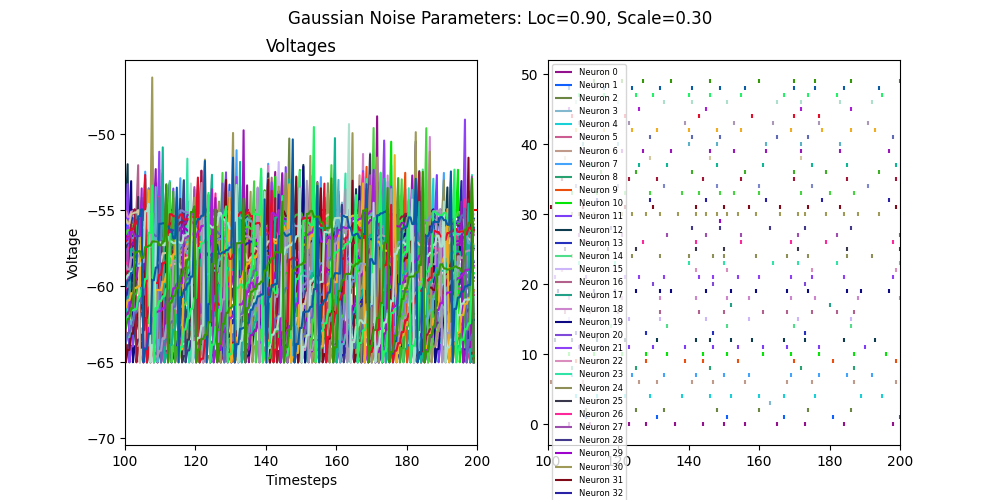
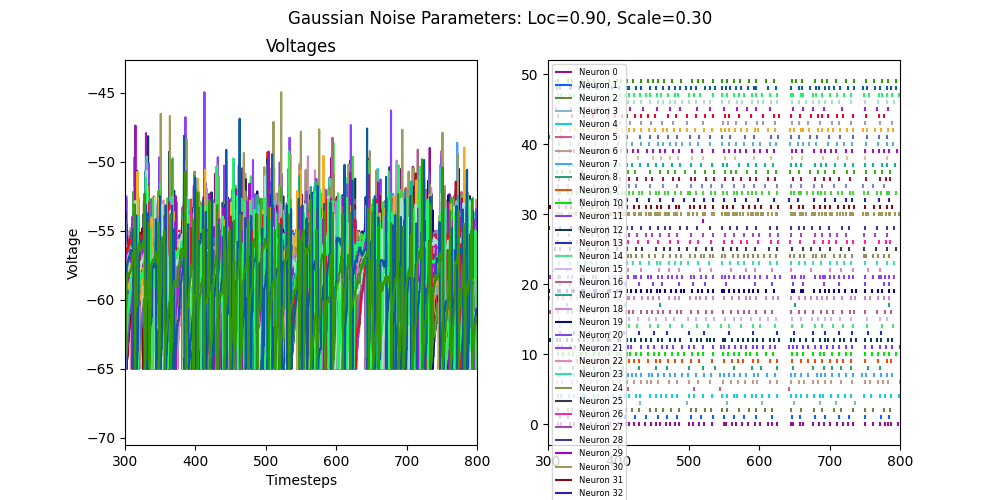
some exmeriments

diff --git a/model.py b/model.py
@@ -13,7 +13,7 @@ from scipy.interpolate import make_smoothing_spline, BSpline
 
 
 class SNN:
-    def __init__(self, delta_time=1.0, resting_potential=-65, threshold=-55, tau=10.0,
+    def __init__(self, delta_time=1.0, resting_potential=-65, threshold=-55, tau=10.0, t_refr = 3,
                  num_neurons=10, time_steps = 10, num_inputs = 10, input_matrix=None, connectivity_matrix=None, max_spikes_record=100000, loc = 0.85, scale = 0.2, plot_xlim = [0, 2000]):
         '''
         SNN that conductions spikes in an interconnected network of LIF neurons
@@ -35,6 +35,7 @@ class SNN:
         self.neurons = num_neurons
         self.all_voltages = np.zeros((num_neurons, 2*(time_steps)))
         self.time_steps = time_steps
+        self.t_refr = t_refr
 
         self.max_spikes_record = max_spikes_record
         self.spikes_num = 0        
@@ -47,7 +48,7 @@ class SNN:
         self.plot_xlim = plot_xlim
 
         # good noise parameters: loc=0.85, scale = 0.2 # .clip(0, None) to remove anything below 0
-        self.noise = np.random.normal(loc=self.loc, scale=self.scale, size=(self.neurons, time_steps))
+        self.noise = np.random.normal(loc=self.loc, scale=self.scale, size=(self.neurons, time_steps)).clip(0, None)
         
 
         # self.t_refr = t_refr
@@ -124,7 +125,7 @@ class SNN:
 
 
 
-    def lif_integration(self, V, input_currents, t):
+    def lif_integration(self, V, input_currents, t, refr):
         '''
         Uses the LIF formula to calculate how spikes are integrated.
 
@@ -150,16 +151,22 @@ class SNN:
         self.all_voltages[:,(2*t)-2] = V
 
         # if the neuron spiked, reset its voltage to the resting potential
+        
+        #self.spikes_num += sum(spiked)
+        #print(self.spikes_num)
+
+        #V[refr>0] = self.resting_potential
+        #refr[refr>0] -= 1
+
         spiked = V > self.threshold
         V[spiked]    = self.resting_potential
         self.all_voltages[:,(2*t)-1] = V
 
-        #self.spikes_num += sum(spiked)
-        #print(self.spikes_num)
-
         #refr[spiked] = self.t_refr / self.delta_time
 
-        return V, spiked
+        refr = 0
+
+        return V, spiked, refr
     
 
     
@@ -183,7 +190,7 @@ class SNN:
         start_noise = np.random.normal(loc=-65, scale=2, size=(self.neurons))
         voltage[:, 0] = start_noise #self.resting_potential               # set initial voltage to resting potential
         spikes        = np.zeros((self.neurons, len(steps)))  # initialise spike output
-        #refr          = np.zeros((self.neurons,))
+        refr          = np.zeros((self.neurons,))
     
         # simulation
         for t in range(1, len(steps)):
@@ -195,7 +202,7 @@ class SNN:
                 total_input = external_input + lateral_input #arr+arr=arr
 
                 # record voltage and spikes
-                voltage[:, t], spikes[:, t] = self.lif_integration(voltage[:, t-1], total_input, t)
+                voltage[:, t], spikes[:, t], refr = self.lif_integration(voltage[:, t-1], total_input, t, refr)
 
             # add visualise() per timestep?
             
@@ -320,7 +327,7 @@ class SNN:
         plt.close()
 
         max = np.max(patterns)
-        pattern_threshold = max - max*0.8
+        pattern_threshold = max*0.2
 
         print("thresh", pattern_threshold)
 

diff --git a/MAIN.py b/MAIN.py
@@ -10,21 +10,21 @@ from matplotlib.path import Path
 
 
 ######TO DO######
-# add refractory period?
-# add different amounts of input?
-# simulate different patterns
-
-# add specifications of variable type in defs
+# keep refractory?
+# make another heatmap showing average pattern size
+# new measure for patterns ?
+# try diffent noise params to underline hypothesis
+# ask Gordon: different noise distribution? otherwise is truncated Gaussian
 
 
 if __name__ == "__main__":
     
     # set time steps (ms) for each experimental loop
-    timesteps = 200
+    timesteps = 800
 
     # set arrays for different locs and scales that should be trialled
-    locs = np.round(np.linspace(0.8, 1, 3), 2) #np.round(np.linspace(0.8, 1.5, 5), 2)
-    scales = np.round(np.linspace(0.1, 0.5, 5), 2)
+    locs = np.round(np.linspace(0.4, 1, 7), 2) #np.round(np.linspace(0.8, 1.5, 5), 2)
+    scales = np.round(np.linspace(0.1, 0.8, 8), 2)
     
     # helper variables
     loop = 0
@@ -59,7 +59,7 @@ if __name__ == "__main__":
         for scale in scales:
   
             # set up the model and connection strength
-            snn = model.SNN(num_neurons=50, time_steps=timesteps, loc = loc, scale = scale, plot_xlim = [100,200])
+            snn = model.SNN(num_neurons=50, time_steps=timesteps, loc = loc, scale = scale, plot_xlim = [300,800])
             snn.auto_connect(0.05, 30, 10)
 
             # let the neuron run for x timesteps
